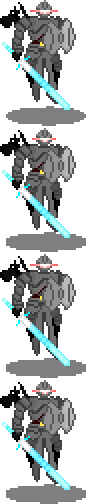
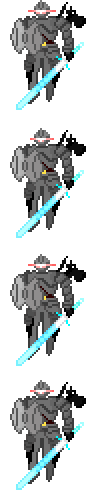
Fixed

diff --git a/NPCs/Enemy/ThePursuer.cs b/NPCs/Enemy/ThePursuer.cs
@@ -4,46 +4,51 @@ using Terraria;
 using Terraria.ID;
 using Terraria.ModLoader;
 
-namespace DrakSolz.NPCs.Enemy
-{
-	// This ModNPC serves as an example of a complete AI example.
-	public class ThePursuer : ModNPC
-	{
-		public override void SetStaticDefaults()
-		{
-			DisplayName.SetDefault("The Pursuer");
-			Main.npcFrameCount[npc.type] = 4; // make sure to set this for your modnpcs.
-		}
+namespace DrakSolz.NPCs.Enemy {
+    // This ModNPC serves as an example of a complete AI example.
+    public class ThePursuer : ModNPC {
+        public override void SetStaticDefaults() {
+            DisplayName.SetDefault("The Pursuer");
+            Main.npcFrameCount[npc.type] = 4; // make sure to set this for your modnpcs.
+        }
 
-		public override void SetDefaults()
-		{
-			npc.width = 24;
+        public override void SetDefaults() {
+            npc.width = 44;
             npc.scale *= 1.1f;
-			npc.height = 44;
-			npc.aiStyle = 3;
-			aiType = NPCID.HeadlessHorseman;
-			animationType = NPCID.HeadlessHorseman;
-			npc.damage = 60;
-			npc.defense = 25;
-			npc.lifeMax = 750;
-			npc.HitSound = SoundID.NPCHit1;
-			npc.DeathSound = SoundID.NPCDeath1;
-			//npc.alpha = 175;
-			//npc.color = new Color(0, 80, 255, 100);
-			npc.value = 50000f;
-            npc.knockBackResist = 1f;
-			npc.buffImmune[BuffID.Confused] = false; // npc default to being immune to the Confused debuff. Allowing confused could be a little more work depending on the AI. npc.confused is true while the npc is confused.
-		}
+            npc.height = 145;
+            npc.aiStyle = 3;
+            aiType = NPCID.PossessedArmor;
+            animationType = NPCID.Wraith;
+            npc.damage = 80;
+            npc.defense = 45;
+            npc.lifeMax = 3000;
+            npc.HitSound = SoundID.NPCHit1;
+            npc.DeathSound = SoundID.NPCDeath1;
+            //npc.alpha = 175;
+            //npc.color = new Color(0, 80, 255, 100);
+            npc.value = 10000f;
+            npc.knockBackResist = 0.05f;
+            npc.buffImmune[BuffID.Confused] = false; // npc default to being immune to the Confused debuff. Allowing confused could be a little more work depending on the AI. npc.confused is true while the npc is confused.
+        }
 
-		public override float SpawnChance(NPCSpawnInfo spawnInfo)
-		{
-			// we would like this npc to spawn in the overworld.
-			return SpawnCondition.Mummy.Chance * 0.5f;
-		}
-public override void FindFrame(int frameHeight)
-		{
-			// This makes the sprite flip horizontally in conjunction with the npc.direction.
-			npc.spriteDirection = npc.direction;
-		}
-	}
+        public override float SpawnChance(NPCSpawnInfo spawnInfo) {
+            // we would like this npc to spawn in the overworld.
+            if (NPC.downedMechBossAny) {
+                return SpawnCondition.OverworldNightMonster.Chance * 0.1f;
+            } else return 0f;
+        }
+        public override void FindFrame(int frameHeight) {
+            // This makes the sprite flip horizontally in conjunction with the npc.direction.
+            npc.spriteDirection = npc.direction;
+        }
+        public override void AI() {
+            npc.TargetClosest(true);
+            Vector2 enemy = npc.Center;
+            enemy.Y = Main.player[npc.target].Center.Y;
+            float y = npc.velocity.Y;
+            if (npc.HasValidTarget && Main.player[npc.target].Distance(enemy) > 100f) {
+                npc.velocity = new Vector2(npc.direction * 3, y);
+            }
+        }
+    }
 }
